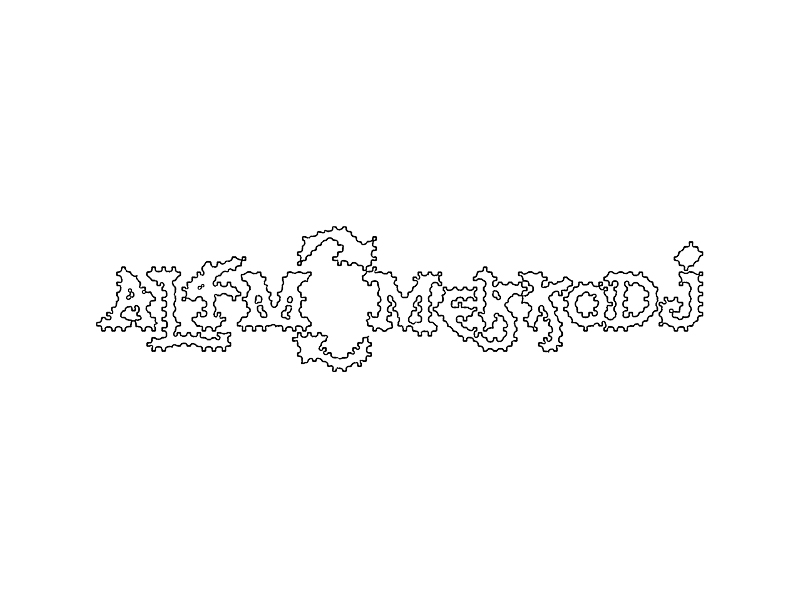
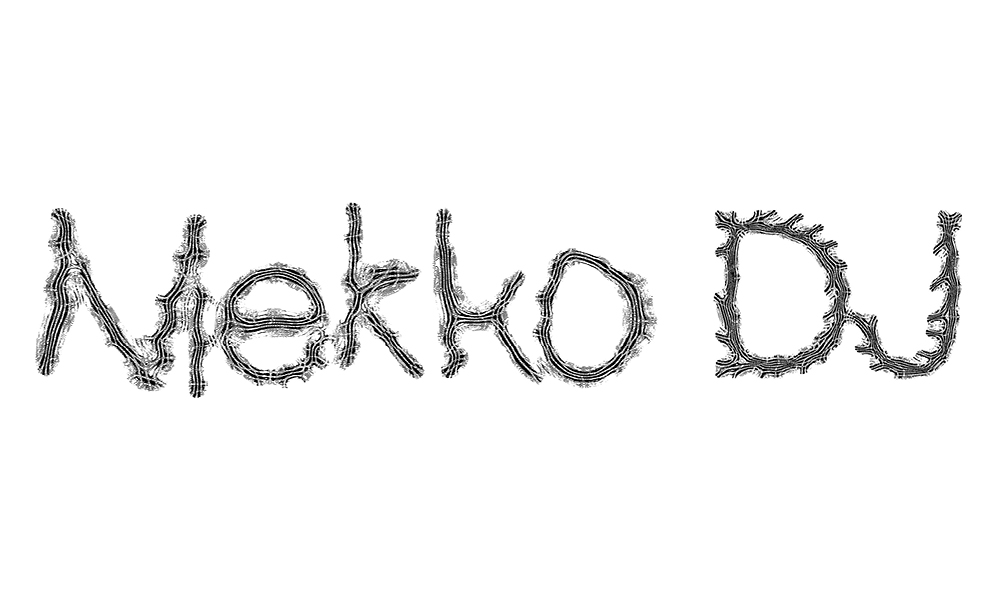
changed typographie imgs

Changed region(s): [[0.0312, 0.33, 0.9688, 0.66]]

diff --git a/index.html b/index.html
@@ -89,6 +89,45 @@
         </div>
       </div>
       
+
+
+      <!-- TYPOGRAPHY -->
+      <div class="project">
+        <div class="artwork">
+          <div class="slider">
+            <div><img src="images/RoryKing-typography.jpg" alt="Bespoke Typography" /></div>
+            <div><img src="images/RoryKing-typography2.jpg" alt="Bespoke Typography" /></div>
+            <div><img src="images/RoryKing-typography3.jpg" alt="Bespoke Typography" /></div>
+            <div><img src="images/RoryKing-typography4.jpg" alt="Bespoke Typography" /></div>
+            <div><img src="images/RoryKing-typography5.jpg" alt="Bespoke Typography" /></div>
+          </div>
+        </div>
+        <div class="description">
+            <p><em>TyPoGrApHy</em><br/>&#x221E;<br/>Designer</p>
+            <p>Custom typography for various clients.</p>
+            <p class="smalltype">[5 slides]</p>
+        </div>
+      </div>
+
+
+
+      <!-- GIFT GUIDE -->
+      <div class="project">
+        <div class="artwork">
+            <div class="slider">
+              <div><img src="images/Pratt-Gift-Guide-low-res-1.png" alt="Pratt Institute Gift Guide"/></div>
+              <div><img src="images/Pratt-Gift-Guide-low-res-3.png" alt="Pratt Institute Gift Guide" /></div>
+              <div><img src="images/Pratt-Gift-Guide-low-res-4.png" alt="Pratt Institute Gift Guide" /></div>
+              <div><img src="images/Pratt-Gift-Guide-low-res-8.png" alt="Pratt Institute Gift Guide" /></div>
+            </div>
+        </div>
+        <div class="description">
+            <p><em>Pratt Institute Gift Guide</em><br/>2015<br/>Art Director</p>
+            <p>Art Direction for Pratt Institute's 2015 Holiday gift guide featuring products made by alumni and faculty. Photography by Daniel Terna.</p>
+            <p class="smalltype">[4 slides]</p>
+        </div>
+      </div>
+
       
 
       <!-- FfP -->
@@ -126,25 +165,7 @@
       </div>
 
 
-      
-    	<!-- GIFT GUIDE -->
-      <div class="project">
-        <div class="artwork">
-            <div class="slider">
-              <div><img src="images/Pratt-Gift-Guide-low-res-1.png" alt="Pratt Institute Gift Guide"/></div>
-              <div><img src="images/Pratt-Gift-Guide-low-res-3.png" alt="Pratt Institute Gift Guide" /></div>
-              <div><img src="images/Pratt-Gift-Guide-low-res-4.png" alt="Pratt Institute Gift Guide" /></div>
-              <div><img src="images/Pratt-Gift-Guide-low-res-8.png" alt="Pratt Institute Gift Guide" /></div>
-            </div>
-        </div>
-        <div class="description">
-            <p><em>Pratt Institute Gift Guide</em><br/>2015<br/>Art Director</p>
-            <p>Art Direction for Pratt Institute's 2015 Holiday gift guide featuring products made by alumni and faculty. Photography by Daniel Terna.</p>
-            <p class="smalltype">[4 slides]</p>
-        </div>
-      </div>
-     
-     
+           
 
       <!-- SSS -->
       <div class="project">
@@ -165,31 +186,13 @@
 
       
       
-      <!-- Typography -->
-      <div class="project">
-        <div class="artwork">
-          <div class="slider">
-            <div><img src="images/RoryKing-typography.jpg" alt="Bespoke Typography" /></div>
-            <div><img src="images/RoryKing-typography2.jpg" alt="Bespoke Typography" /></div>
-            <div><img src="images/RoryKing-typography3.jpg" alt="Bespoke Typography" /></div>
-            <div><img src="images/RoryKing-typography4.jpg" alt="Bespoke Typography" /></div>
-            <div><img src="images/RoryKing-typography5.jpg" alt="Bespoke Typography" /></div>
-          </div>
-        </div>
-        <div class="description">
-            <p><em>TyPoGrApHy</em><br/>&#x221E;<br/>Designer</p>
-            <p>Custom typography for various clients.</p>
-            <p class="smalltype">[5 slides]</p>
-        </div>
-      </div>
-
-      
       
       <!-- 321 -->
       <div class="project">
         <div class="artwork">
             <div class="slider">
               <div><img src="images/321/321-4.png" alt="321 Gallery" class="shadow"/></div>
+              <div><img src="images/321/321-5.png" alt="321 Gallery" class="shadow"/></div>
               <div><img src="images/321/321-6.png" alt="321 Gallery" class="shadow"/></div>
               <div><img src="images/321/321-press_release.jpg" alt="321 Gallery" class="shadow"/></div>
             </div>
@@ -257,7 +260,6 @@
         </div>
       </div>
 
-      
           
       
       <!-- DxD6 -->
@@ -275,7 +277,6 @@
             <p class="smalltype">[3 slides]</p>
         </div>
       </div>
-
 
       
 
@@ -401,7 +402,6 @@
 
 
   </div><!-- END CONTAINER -->
-
 
   
 
